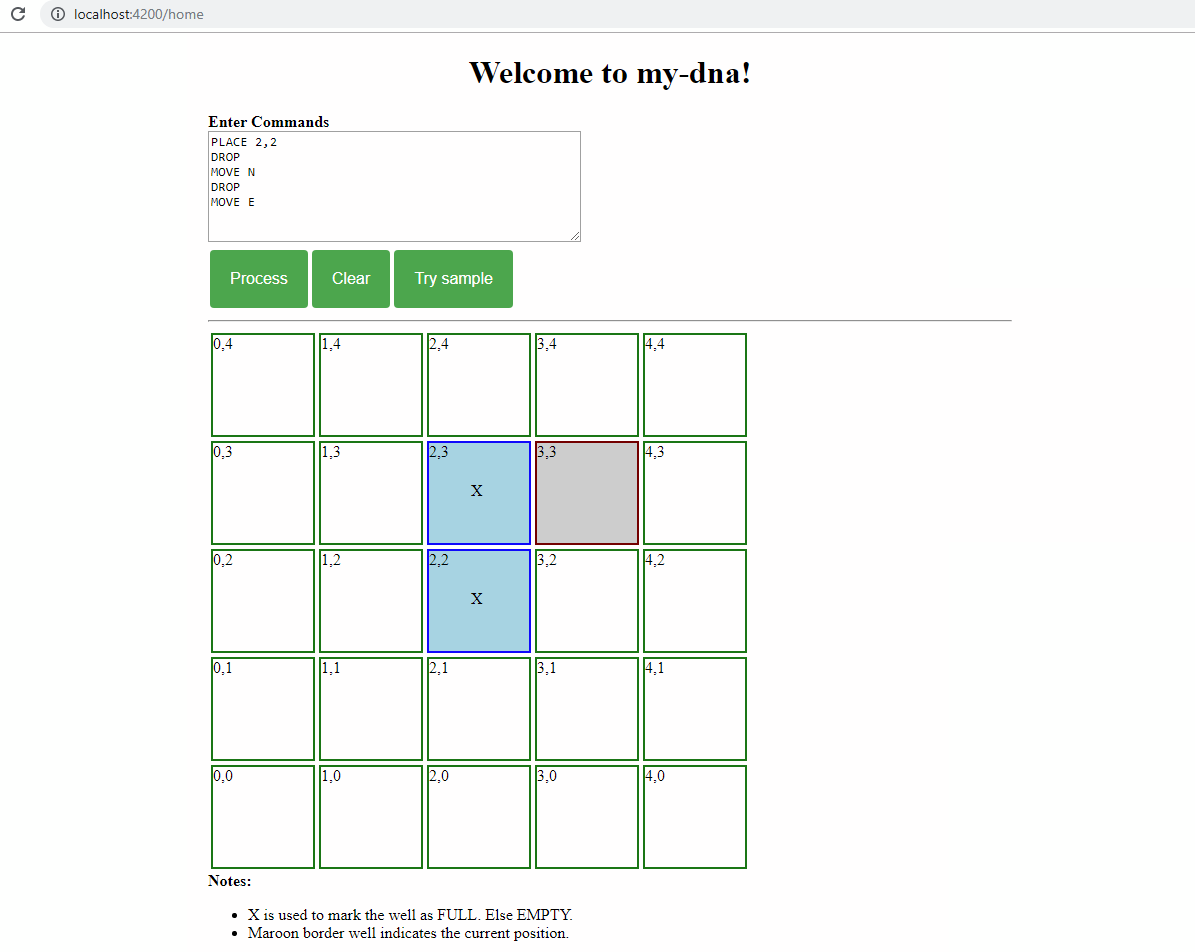
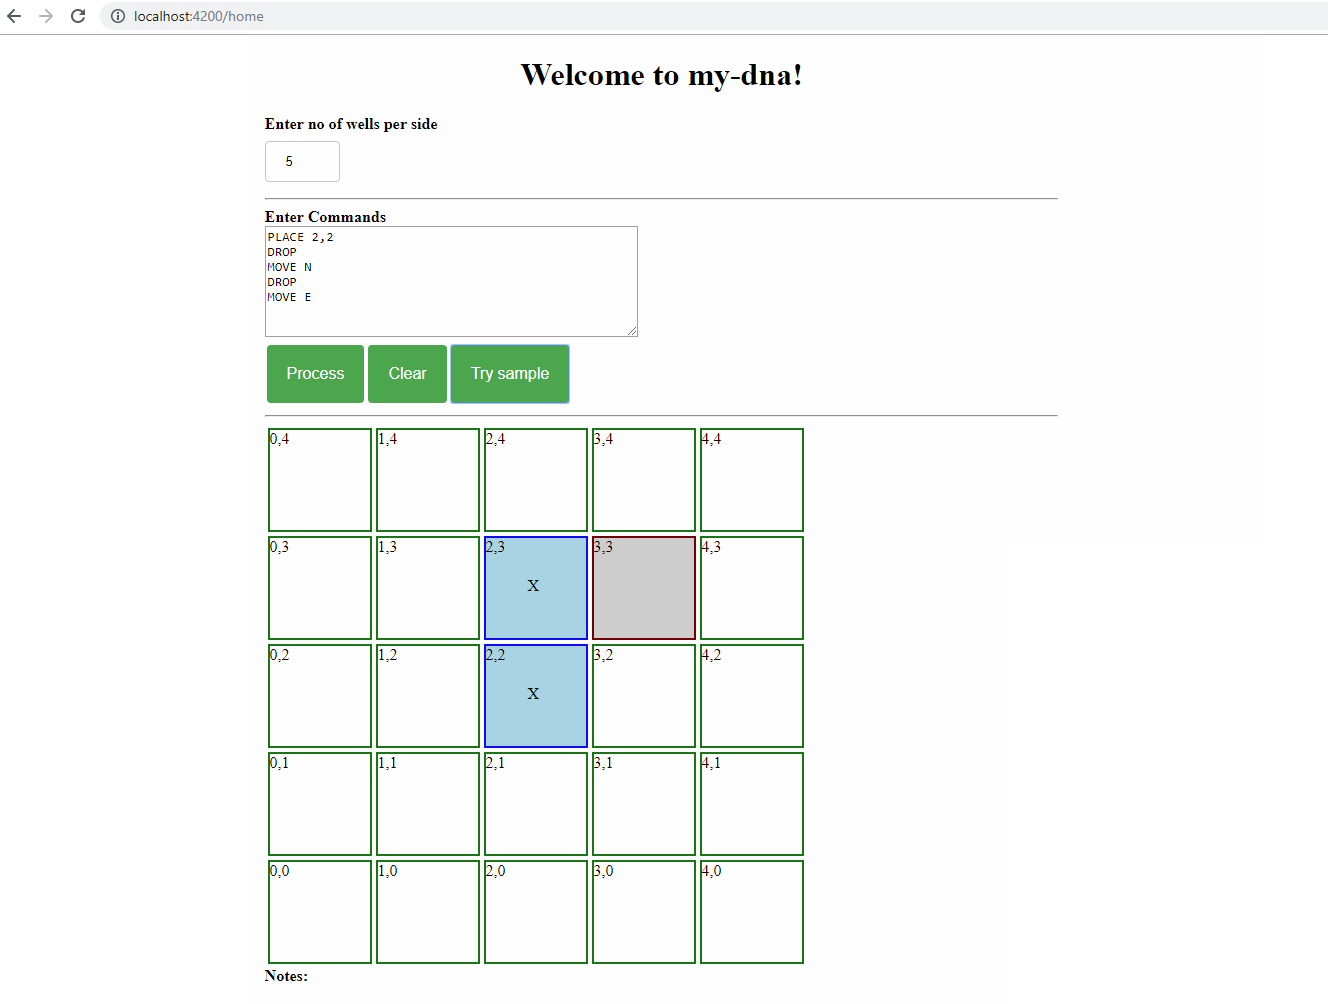
added setting the size of the plate.

diff --git a/my-dna/src/app/home/home.component.ts b/my-dna/src/app/home/home.component.ts
@@ -2,6 +2,8 @@ import { Component, OnInit } from '@angular/core';
 
 import { RobotPipettingService, CommandType, Location } from '../services/robot-pipetting.service';
 
+const DEFAULT_NO_OF_WELLS_PER_SIDE: string = "5";
+
 @Component({
   selector: 'app-home',
   templateUrl: './home.component.html',
@@ -9,9 +11,9 @@ import { RobotPipettingService, CommandType, Location } from '../services/robot-
 })
 export class HomeComponent implements OnInit {
 
-  noSquaresInEachSide: number = 5;
-  noSquares: number = this.noSquaresInEachSide * this.noSquaresInEachSide;
-  fakeArray = new Array(this.noSquaresInEachSide);
+  noSquaresInEachSide: string = DEFAULT_NO_OF_WELLS_PER_SIDE;
+  noSquares: number;
+  fakeArray: any[];
 
   plate: Array<Well> = new Array<Well>();
 
@@ -22,17 +24,30 @@ export class HomeComponent implements OnInit {
   constructor(private service: RobotPipettingService) { }
 
   ngOnInit() {
-    this.bind();
+    this.noSquaresInEachSide = DEFAULT_NO_OF_WELLS_PER_SIDE;
+    this.setWellsPerSide();
+  }
+
+  setWellsPerSide() {
+    if (this.noSquaresInEachSide && +this.noSquaresInEachSide > 0) {
+      this.noSquares = +this.noSquaresInEachSide * +this.noSquaresInEachSide; 
+      this.bind();
+    }        
+    else {
+      this.noSquaresInEachSide = "";
+    }
   }
 
   bind() {
     this.plate = new Array<Well>();
 
-    for(let i=0; i < this.noSquaresInEachSide; i++) {
-      for(let j=0; j < this.noSquaresInEachSide; j++) {
+    for(let i=0; i < +this.noSquaresInEachSide; i++) {
+      for(let j=0; j < +this.noSquaresInEachSide; j++) {
         this.plate.push(new Well(i, j, false));
       }  
     }
+
+    this.fakeArray = new Array(+this.noSquaresInEachSide);
   }
 
   sample() {
@@ -51,7 +66,6 @@ MOVE E`;
     }    
     this.presentLocation = null;
     this.bind();
-    this.fakeArray = new Array(this.noSquaresInEachSide);
   }
 
   process() {    
@@ -67,7 +81,7 @@ MOVE E`;
           case CommandType.PLACE:
             let location = this.service.parsePlaceArgs(cmd.arguments);
   
-            if (location && this.isInBounds(location.x, location.y, this.noSquaresInEachSide)) {
+            if (location && this.isInBounds(location.x, location.y, +this.noSquaresInEachSide)) {
               this.presentLocation = location;
               isPlaced = true;
             }
@@ -83,7 +97,7 @@ MOVE E`;
             if (isPlaced) {
               let locationAfterMove = this.service.parseMoveArg(this.presentLocation, cmd.arguments);
   
-              if (locationAfterMove && this.isInBounds(locationAfterMove.x, locationAfterMove.y, this.noSquaresInEachSide)) {
+              if (locationAfterMove && this.isInBounds(locationAfterMove.x, locationAfterMove.y, +this.noSquaresInEachSide)) {
                 this.presentLocation = locationAfterMove;
               }
             }            
@@ -109,7 +123,7 @@ MOVE E`;
   }
 
   isInBounds(x: number, y: number, noOfWellsPerSide: number) : boolean {
-    return (x >= 0 && x < noOfWellsPerSide - 1) && (y >= 0 && y < noOfWellsPerSide - 1);
+    return (x >= 0 && x < noOfWellsPerSide) && (y >= 0 && y < noOfWellsPerSide);
   }
 }
 

diff --git a/my-dna/src/app/home/home.component.html b/my-dna/src/app/home/home.component.html
@@ -1,3 +1,9 @@
+<b>Enter no of wells per side</b>
+<br />
+<input class="input" (keyup)="setWellsPerSide()" [(ngModel)]="noSquaresInEachSide" type="text" />
+
+<hr />
+
 <b>Enter Commands</b>
 <br />
 <textarea rows="7" cols="50" [(ngModel)]="commands"></textarea>

diff --git a/my-dna/src/app/home/home.component.scss b/my-dna/src/app/home/home.component.scss
@@ -32,3 +32,13 @@
 }
 
 .button2 {border-radius: 4px;}
+
+.input {
+    width: 75px;
+    padding: 12px 20px;
+    margin: 8px 0;
+    display: inline-block;
+    border: 1px solid #ccc;
+    border-radius: 4px;
+    box-sizing: border-box;
+}
